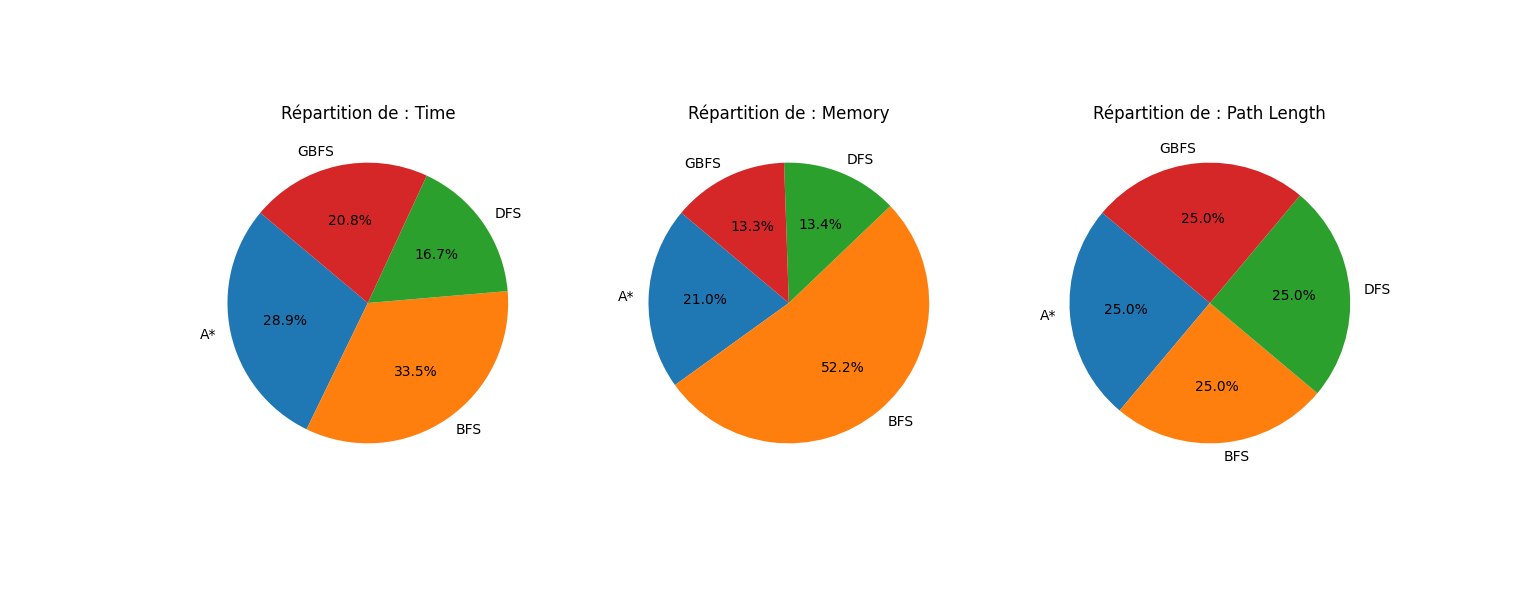
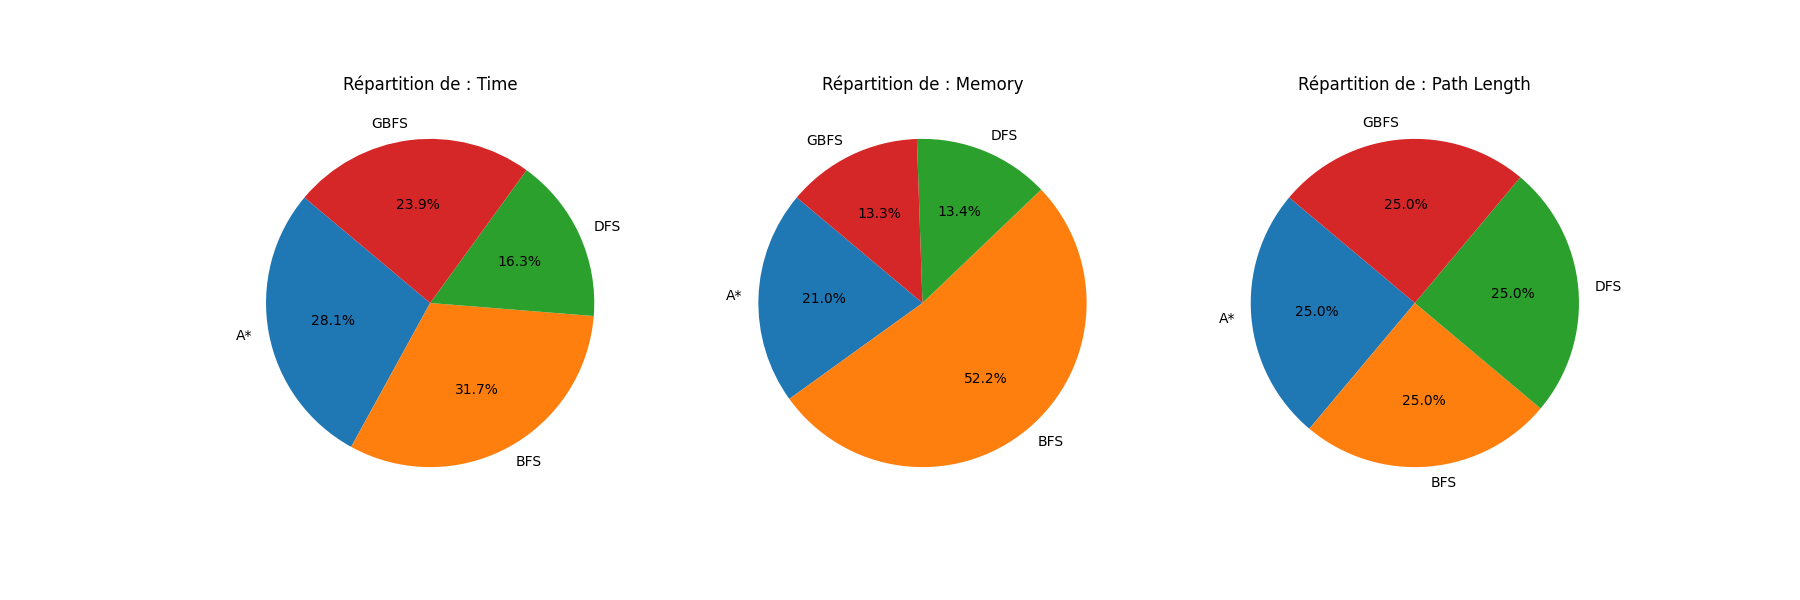
Fix: visualization images and indentation issues

diff --git a/visualization.py b/visualization.py
@@ -31,6 +31,8 @@ def plot_radar_chart(df):
     ax.set_xticklabels(categories)
     plt.title('Comparaison des Performances (Normalisée)')
     plt.legend(loc='upper right', bbox_to_anchor=(1.3, 1.1))
+
+    plt.savefig('radar_chart.png')
     plt.show()
 
 # 2. Comparaison des moyennes par Bar Charts
@@ -51,6 +53,7 @@ def plot_performance_comparison(stats):
         axes[i].grid(True, axis='y', linestyle='--', alpha=0.7)
 
     plt.tight_layout()
+    plt.savefig('performance_comparison.png')
     plt.show()
 
 # 3. Diagrammes en boîtes (Boxplots) pour la distribution
@@ -67,6 +70,7 @@ def plot_boxplots(df):
         axes[i].grid(True, linestyle='--', alpha=0.6)
 
     plt.tight_layout()
+    plt.savefig('boxplots.png')
     plt.show()
 
 # 4. Diagrammes circulaires (Pie Charts)
@@ -81,13 +85,6 @@ def plot_pie_charts(stats):
         means = stats[(metric, 'mean')]
         axes[i].pie(means, labels=means.index, autopct='%1.1f%%', startangle=140)
         axes[i].set_title(f'Répartition de : {metric}')
-
-    
-    plt.savefig('radar_chart.png')
-    plt.show()
     plt.savefig('pie_charts.png')
     plt.show()
-    plt.savefig('performance_comparison.png')
-    plt.show()
-    plt.savefig('boxplots.png')
-    plt.show()
+    plt.close()